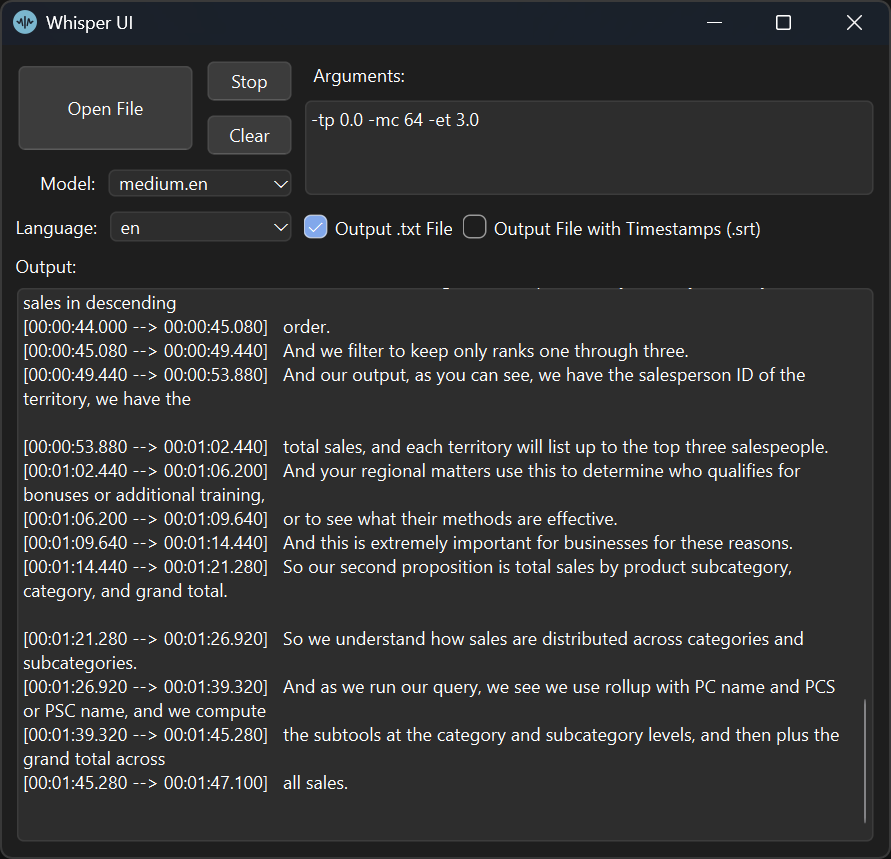
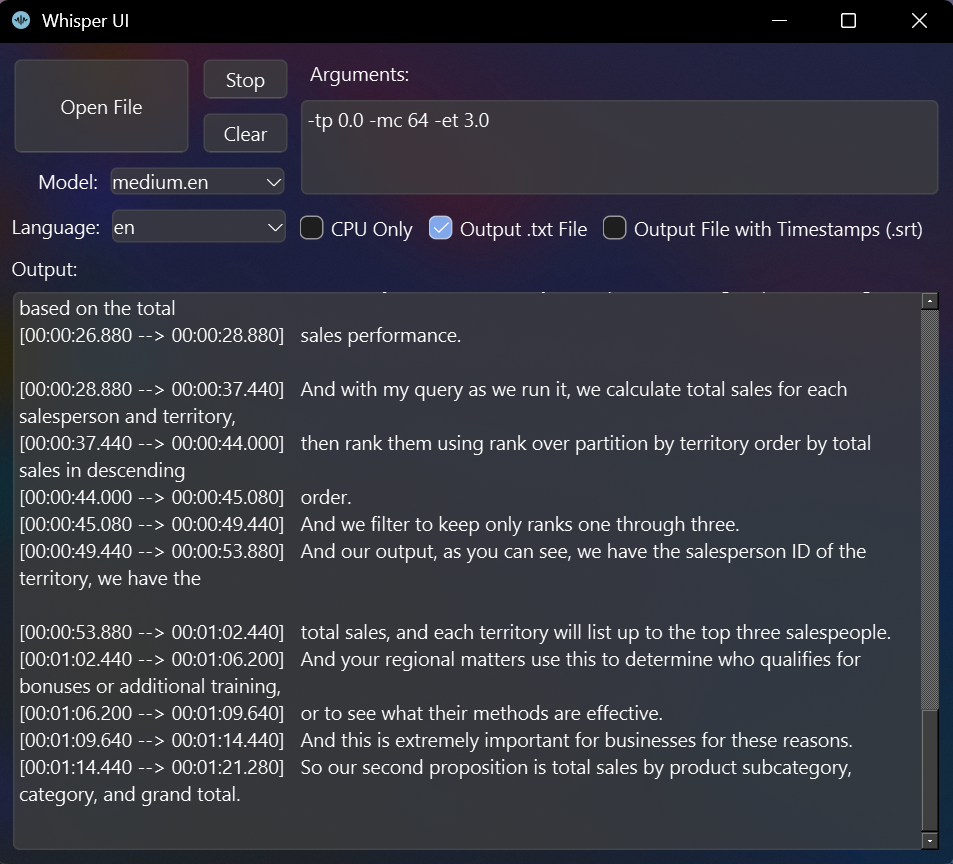
Add windows blur effect and other UI tweaks

diff --git a/mainwindow.cpp b/mainwindow.cpp
@@ -9,8 +9,10 @@
 #include <QTimer>
 #include <QMimeData>
 #include <QSettings>
+#include <Windows.h>
 
 QList<QProcess*> processList;
+
 
 MainWindow::MainWindow(QWidget *parent)
     : QMainWindow(parent)
@@ -40,12 +42,89 @@ MainWindow::MainWindow(QWidget *parent)
 
     setAcceptDrops(true);
     loadSettings();
+
+    handleBlur();
 }
 
 MainWindow::~MainWindow()
 {
     delete ui;
 }
+
+void MainWindow::changeEvent(QEvent *event)
+{
+    QMainWindow::changeEvent(event);
+
+    if (event->type() == QEvent::PaletteChange)
+        handleBlur();
+
+}
+
+void MainWindow::handleBlur()
+{
+    setAttribute(Qt::WA_TranslucentBackground);
+    ui->centralwidget->setAttribute(Qt::WA_TranslucentBackground);
+
+    QColor bg = palette().color(QPalette::Window);
+    bool isDark = bg.lightness() < 128;
+
+    QString widgetBackground = isDark
+                                   ? "background-color: rgba(64, 64, 64, 180); color: white;"
+                                   : "background-color: rgba(255, 255, 255, 180); color: black;";
+
+    ui->openFile->setAttribute(Qt::WA_TranslucentBackground);
+    ui->openFile->setStyleSheet(widgetBackground);
+
+    ui->stop->setAttribute(Qt::WA_TranslucentBackground);
+    ui->stop->setStyleSheet(widgetBackground);
+
+    ui->clear->setAttribute(Qt::WA_TranslucentBackground);
+    ui->clear->setStyleSheet(widgetBackground);
+
+    ui->model->setAttribute(Qt::WA_TranslucentBackground);
+    ui->model->setStyleSheet(widgetBackground);
+
+    ui->language->setAttribute(Qt::WA_TranslucentBackground);
+    ui->language->setStyleSheet(widgetBackground);
+
+    ui->arguments->setAttribute(Qt::WA_TranslucentBackground);
+    ui->arguments->setStyleSheet(widgetBackground);
+
+    ui->console->setAttribute(Qt::WA_TranslucentBackground);
+    ui->console->setStyleSheet(widgetBackground);
+
+    int acrylicColor = isDark
+                           ? static_cast<int>(0x77202020)  // dark blur
+                           : static_cast<int>(0x77FFFFFF); // light blur
+
+    HWND hwnd = reinterpret_cast<HWND>(this->winId());
+
+    struct ACCENTPOLICY {
+        int nAccentState;
+        int nFlags;
+        int nColor;
+        int nAnimationId;
+    };
+
+    struct WINCOMPATTRDATA {
+        int nAttribute;
+        PVOID pData;
+        ULONG ulDataSize;
+    };
+
+    ACCENTPOLICY policy = { 4 /* ACCENT_ENABLE_ACRYLICBLURBEHIND */, 2, acrylicColor, 0 };
+    WINCOMPATTRDATA data = { 19, &policy, sizeof(policy) };
+
+    using pSetWindowCompositionAttribute = BOOL(WINAPI *)(HWND, WINCOMPATTRDATA*);
+    auto user32 = GetModuleHandleA("user32.dll");
+    auto setWindowCompositionAttribute = reinterpret_cast<pSetWindowCompositionAttribute>(
+        GetProcAddress(user32, "SetWindowCompositionAttribute"));
+
+    if (setWindowCompositionAttribute) {
+        setWindowCompositionAttribute(hwnd, &data);
+    }
+}
+
 
 void MainWindow::dragEnterEvent(QDragEnterEvent *event)
 {

diff --git a/mainwindow.h b/mainwindow.h
@@ -24,11 +24,13 @@ private slots:
     void onOpenFileClicked();
     void dragEnterEvent(QDragEnterEvent *event) override;
     void dropEvent(QDropEvent *event) override;
+    void changeEvent(QEvent *event) override;
     void loadSettings();
     void saveSettings();
     void exitProcesses();
     void startNextInQueue();
     void clearConsole();
+    void handleBlur();
 
 private:
     Ui::EasyWhisperUI *ui;
